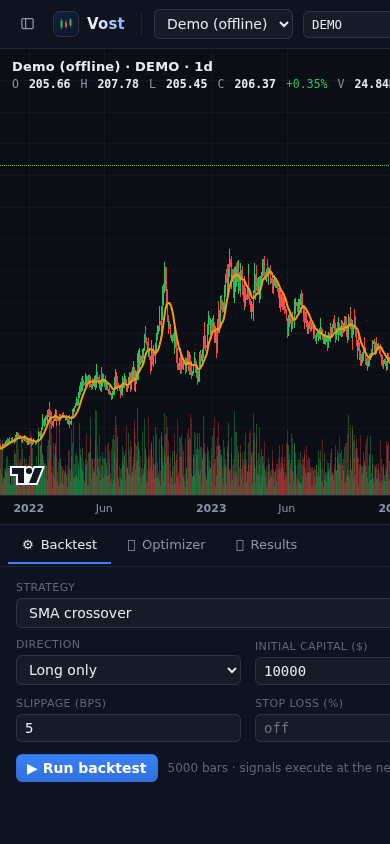
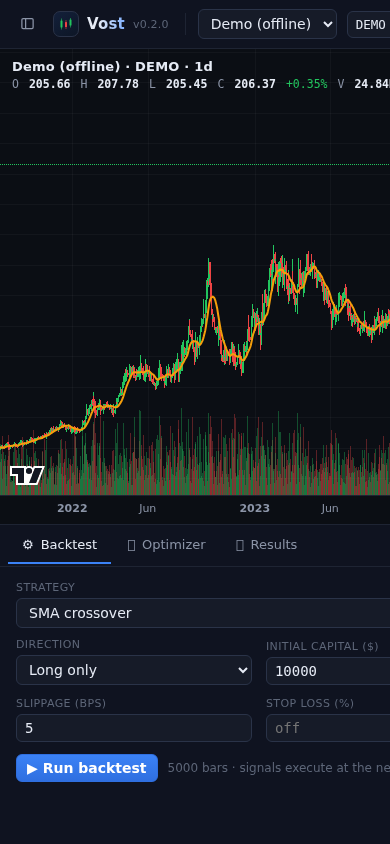
Show loaded data range and bar count in the top bar (#55)

diff --git a/client/src/components/TopBar.tsx b/client/src/components/TopBar.tsx
@@ -1,4 +1,6 @@
+import { useEffect, useState } from 'react';
 import { APP_VERSION, PROVIDER_GITHUB_URL } from '../lib/constants';
+import { fmtDataRange } from '../lib/format';
 import { getProvider, providers } from '../lib/providers';
 import { TIMEFRAMES } from '../types';
 import { unreadCount } from '../lib/messages';
@@ -22,6 +24,8 @@ export function TopBar({
   const loadState = useStore((s) => s.loadState);
   const unread = useStore((s) => unreadCount(s.messages));
   const live = useStore((s) => s.live);
+  const candles = useStore((s) => s.candles);
+  const [now, setNow] = useState(() => Date.now() / 1000);
   const liveStatus = useStore((s) => s.liveStatus);
   const liveDetail = useStore((s) => s.liveDetail);
   const setProvider = useStore((s) => s.setProvider);
@@ -29,6 +33,15 @@ export function TopBar({
   const setBars = useStore((s) => s.setBars);
   const loadData = useStore((s) => s.loadData);
   const setLive = useStore((s) => s.setLive);
+
+  useEffect(() => {
+    if (!live) return;
+    setNow(Date.now() / 1000);
+    const id = setInterval(() => setNow(Date.now() / 1000), 30_000);
+    return () => clearInterval(id);
+  }, [live]);
+
+  const rangeText = fmtDataRange(candles[0]?.time, candles[candles.length - 1]?.time, candles.length, { live, now });
 
   const provider = getProvider(providerId);
   const timeframes = TIMEFRAMES.filter((tf) => provider.timeframes.includes(tf));
@@ -97,6 +110,12 @@ export function TopBar({
           ))}
         </select>
       </div>
+
+      {rangeText && (
+        <span className="topbar-range" title={rangeText}>
+          {rangeText}
+        </span>
+      )}
 
       <button className="primary" onClick={() => void loadData()} disabled={loadState === 'loading'} title="Reload data">
         {loadState === 'loading' ? <span className="spinner" /> : 'Load'}

diff --git a/client/src/lib/format.test.ts b/client/src/lib/format.test.ts
@@ -1,0 +1,30 @@
+import { afterEach, describe, expect, it, vi } from 'vitest';
+import { fmtDataRange, fmtTime } from './format';
+
+const a = 1355320800;
+const b = 1580846400;
+
+describe('fmtDataRange', () => {
+  afterEach(() => vi.useRealTimers());
+
+  it('formats a normal range', () => {
+    expect(fmtDataRange(a, b, 4987)).toBe(`${fmtTime(a)} → ${fmtTime(b)} · 4,987 bars`);
+  });
+  it('handles a single bar', () => {
+    expect(fmtDataRange(a, a, 1)).toBe(`${fmtTime(a)} → ${fmtTime(a)} · 1 bar`);
+  });
+  it('uses injected now when live', () => {
+    const now = 1761429000;
+    expect(fmtDataRange(a, b, 4987, { live: true, now })).toBe(`${fmtTime(a)} → now ${fmtTime(now)} · 4,987 bars`);
+  });
+  it('defaults now to the current time when live', () => {
+    vi.useFakeTimers();
+    vi.setSystemTime(new Date(1761429000 * 1000));
+    expect(fmtDataRange(a, b, 2, { live: true })).toBe(`${fmtTime(a)} → now ${fmtTime(1761429000)} · 2 bars`);
+  });
+  it('returns empty without data', () => {
+    expect(fmtDataRange(a, b, 0)).toBe('');
+    expect(fmtDataRange(null, b, 5)).toBe('');
+    expect(fmtDataRange(a, undefined, 5)).toBe('');
+  });
+});

diff --git a/client/src/lib/format.ts b/client/src/lib/format.ts
@@ -67,6 +67,18 @@ export function fmtDurationBarCount(bars: number): string {
   return bars === 1 ? '1 bar' : `${fmtNum(bars, 0)} bars`;
 }
 
+/** Loaded data span, e.g. "12 Dec 2012, 14:00 → 04 Feb 2020, 19:00 · 4,987 bars". Empty when there is no data. */
+export function fmtDataRange(
+  firstSec: number | null | undefined,
+  lastSec: number | null | undefined,
+  count: number,
+  opts: { live?: boolean; now?: number } = {},
+): string {
+  if (count <= 0 || firstSec == null || lastSec == null) return '';
+  const end = opts.live ? `now ${fmtTime(opts.now ?? Date.now() / 1000)}` : fmtTime(lastSec);
+  return `${fmtTime(firstSec)} → ${end} · ${fmtDurationBarCount(count)}`;
+}
+
 /** Human-readable bar interval, e.g. 3600 -> "1h". */
 export function barLabelFromSeconds(seconds: number): string {
   if (!Number.isFinite(seconds) || seconds <= 0) return 'custom';

diff --git a/client/src/styles.css b/client/src/styles.css
@@ -156,6 +156,16 @@ textarea {
   margin: 0 2px;
 }
 
+.topbar-range {
+  color: var(--muted-2);
+  font-size: 11px;
+  white-space: nowrap;
+  overflow: hidden;
+  text-overflow: ellipsis;
+  min-width: 0;
+  flex: 0 1 auto;
+}
+
 .topbar-right {
   margin-left: auto;
   display: flex;
@@ -1294,4 +1304,10 @@ a:hover {
 }
 .pine-editor .cm-scroller {
   overflow: auto;
+}
+
+@media (max-width: 700px) {
+  .topbar-range {
+    display: none;
+  }
 }
